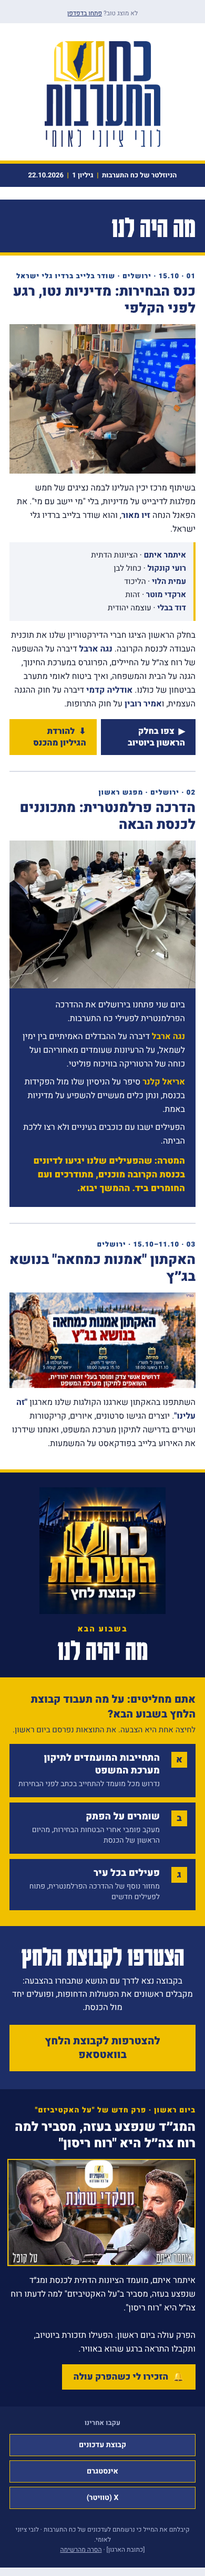
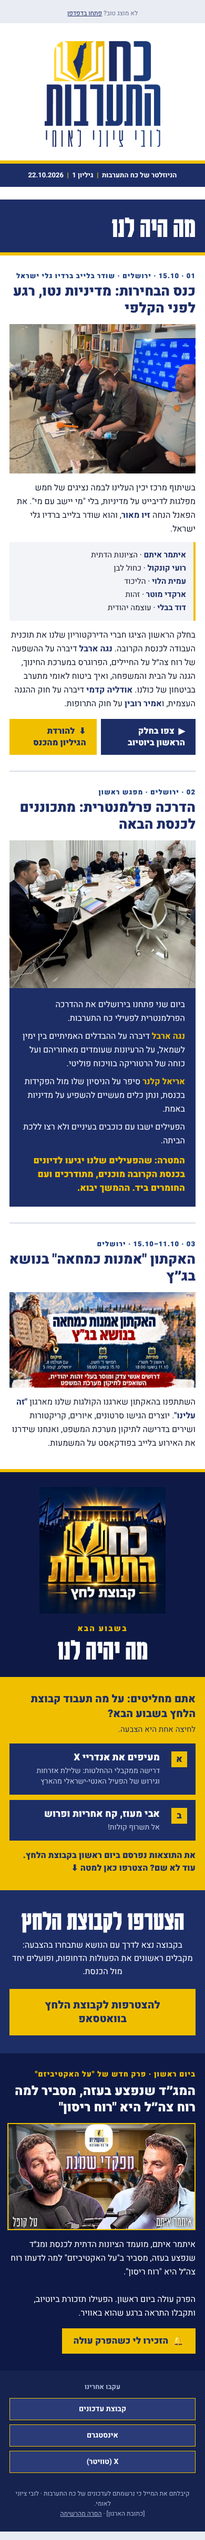
Issue 1: two vote options, results line points to the pressure group
Claude-Session: https://claude.ai/code/session_01CXy1GAMCNCJzawLkNUrF7w

diff --git a/newsletter/preview-issue-01.html b/newsletter/preview-issue-01.html
@@ -6,7 +6,7 @@
 
   משתנים להחלפה:
     logo.png images/conference.jpg images/training.jpg images/hackathon.jpg images/pressure-group.jpg images/podcast.jpg  כתובות התמונות (logo.png, images/*.jpg) אחרי העלאה למערכת הדיוור
-    https://claude.ai/artifact/BitaazYA1yUxEs9iazZaUa#vote-a https://claude.ai/artifact/BitaazYA1yUxEs9iazZaUa#vote-b https://claude.ai/artifact/BitaazYA1yUxEs9iazZaUa#vote-c  קישור לכל אפשרות הצבעה. מערכת הדיוור סופרת לחיצות לכל קישור בנפרד
+    https://claude.ai/artifact/BitaazYA1yUxEs9iazZaUa#vote-a https://claude.ai/artifact/BitaazYA1yUxEs9iazZaUa#vote-b  קישור לכל אפשרות הצבעה. מערכת הדיוור סופרת לחיצות לכל קישור בנפרד
     #      הגיליון מהכנס להורדה
     https://claude.ai/artifact/BitaazYA1yUxEs9iazZaUa#web   הגיליון בדפדפן
     https://claude.ai/artifact/BitaazYA1yUxEs9iazZaUa#unsub   הסרה מהרשימה (חובה)
@@ -140,7 +140,7 @@
         <tr><td height="6" bgcolor="#F0C000" style="background:#F0C000;font-size:0;line-height:0;">&nbsp;</td></tr>
         <tr><td class="px" bgcolor="#F0C000" style="background:#F0C000;padding:22px 26px 30px;text-align:right;">
           <div style="font-family:'Heebo',Arial,sans-serif;font-size:20px;line-height:28px;font-weight:900;color:#1D2E67;padding:0 0 4px;">אתם מחליטים: על מה תעבוד קבוצת הלחץ בשבוע הבא?</div>
-          <div style="font-family:'Heebo',Arial,sans-serif;font-size:15px;line-height:22px;color:#1D2E67;padding-bottom:16px;">לחיצה אחת היא הצבעה. את התוצאות נפרסם ביום ראשון.</div>
+          <div style="font-family:'Heebo',Arial,sans-serif;font-size:15px;line-height:22px;color:#1D2E67;padding-bottom:16px;">לחיצה אחת היא הצבעה.</div>
 
           <table role="presentation" width="100%" cellpadding="0" cellspacing="0" border="0">
             <tr><td style="padding-bottom:10px;">
@@ -149,34 +149,24 @@
                   <table role="presentation" cellpadding="0" cellspacing="0" border="0"><tr><td width="30" height="30" align="center" bgcolor="#F0C000" style="background:#F0C000;font-family:'Heebo',Arial,sans-serif;font-size:17px;font-weight:900;color:#1D2E67;"><a href="https://claude.ai/artifact/BitaazYA1yUxEs9iazZaUa#vote-a" style="color:#1D2E67;text-decoration:none;">א</a></td></tr></table>
                 </td>
                 <td bgcolor="#1D2E67" style="background:#1D2E67;padding:15px 12px 15px 16px;text-align:right;font-family:'Heebo',Arial,sans-serif;">
-                  <a href="https://claude.ai/artifact/BitaazYA1yUxEs9iazZaUa#vote-a" style="color:#FFFFFF;text-decoration:none;font-size:18px;line-height:24px;font-weight:900;display:block;">התחייבות המועמדים לתיקון מערכת המשפט</a>
-                  <a href="https://claude.ai/artifact/BitaazYA1yUxEs9iazZaUa#vote-a" style="color:#C9D0E6;text-decoration:none;font-size:14px;line-height:20px;display:block;padding-top:3px;">נדרוש מכל מועמד להתחייב בכתב לפני הבחירות</a>
-                </td>
-              </tr></table>
-            </td></tr>
-            <tr><td style="padding-bottom:10px;">
-              <table role="presentation" width="100%" cellpadding="0" cellspacing="0" border="0"><tr>
-                <td width="40" valign="top" bgcolor="#1D2E67" style="background:#1D2E67;padding:15px 16px 15px 0;">
-                  <table role="presentation" cellpadding="0" cellspacing="0" border="0"><tr><td width="30" height="30" align="center" bgcolor="#F0C000" style="background:#F0C000;font-family:'Heebo',Arial,sans-serif;font-size:17px;font-weight:900;color:#1D2E67;"><a href="https://claude.ai/artifact/BitaazYA1yUxEs9iazZaUa#vote-b" style="color:#1D2E67;text-decoration:none;">ב</a></td></tr></table>
-                </td>
-                <td bgcolor="#1D2E67" style="background:#1D2E67;padding:15px 12px 15px 16px;text-align:right;font-family:'Heebo',Arial,sans-serif;">
-                  <a href="https://claude.ai/artifact/BitaazYA1yUxEs9iazZaUa#vote-b" style="color:#FFFFFF;text-decoration:none;font-size:18px;line-height:24px;font-weight:900;display:block;">שומרים על הפתק</a>
-                  <a href="https://claude.ai/artifact/BitaazYA1yUxEs9iazZaUa#vote-b" style="color:#C9D0E6;text-decoration:none;font-size:14px;line-height:20px;display:block;padding-top:3px;">מעקב פומבי אחרי הבטחות הבחירות, מהיום הראשון של הכנסת</a>
+                  <a href="https://claude.ai/artifact/BitaazYA1yUxEs9iazZaUa#vote-a" style="color:#FFFFFF;text-decoration:none;font-size:18px;line-height:24px;font-weight:900;display:block;">מעיפים את אנדריי X</a>
+                  <a href="https://claude.ai/artifact/BitaazYA1yUxEs9iazZaUa#vote-a" style="color:#C9D0E6;text-decoration:none;font-size:14px;line-height:20px;display:block;padding-top:3px;">דרישה ממקבלי ההחלטות: שלילת אזרחות וגירוש של הפעיל האנטי-ישראלי מהארץ</a>
                 </td>
               </tr></table>
             </td></tr>
             <tr><td>
               <table role="presentation" width="100%" cellpadding="0" cellspacing="0" border="0"><tr>
                 <td width="40" valign="top" bgcolor="#1D2E67" style="background:#1D2E67;padding:15px 16px 15px 0;">
-                  <table role="presentation" cellpadding="0" cellspacing="0" border="0"><tr><td width="30" height="30" align="center" bgcolor="#F0C000" style="background:#F0C000;font-family:'Heebo',Arial,sans-serif;font-size:17px;font-weight:900;color:#1D2E67;"><a href="https://claude.ai/artifact/BitaazYA1yUxEs9iazZaUa#vote-c" style="color:#1D2E67;text-decoration:none;">ג</a></td></tr></table>
+                  <table role="presentation" cellpadding="0" cellspacing="0" border="0"><tr><td width="30" height="30" align="center" bgcolor="#F0C000" style="background:#F0C000;font-family:'Heebo',Arial,sans-serif;font-size:17px;font-weight:900;color:#1D2E67;"><a href="https://claude.ai/artifact/BitaazYA1yUxEs9iazZaUa#vote-b" style="color:#1D2E67;text-decoration:none;">ב</a></td></tr></table>
                 </td>
                 <td bgcolor="#1D2E67" style="background:#1D2E67;padding:15px 12px 15px 16px;text-align:right;font-family:'Heebo',Arial,sans-serif;">
-                  <a href="https://claude.ai/artifact/BitaazYA1yUxEs9iazZaUa#vote-c" style="color:#FFFFFF;text-decoration:none;font-size:18px;line-height:24px;font-weight:900;display:block;">פעילים בכל עיר</a>
-                  <a href="https://claude.ai/artifact/BitaazYA1yUxEs9iazZaUa#vote-c" style="color:#C9D0E6;text-decoration:none;font-size:14px;line-height:20px;display:block;padding-top:3px;">מחזור נוסף של ההדרכה הפרלמנטרית, פתוח לפעילים חדשים</a>
+                  <a href="https://claude.ai/artifact/BitaazYA1yUxEs9iazZaUa#vote-b" style="color:#FFFFFF;text-decoration:none;font-size:18px;line-height:24px;font-weight:900;display:block;">אבי מעוז, קח אחריות ופרוש</a>
+                  <a href="https://claude.ai/artifact/BitaazYA1yUxEs9iazZaUa#vote-b" style="color:#C9D0E6;text-decoration:none;font-size:14px;line-height:20px;display:block;padding-top:3px;">אל תשרוף קולות!</a>
                 </td>
               </tr></table>
             </td></tr>
           </table>
+          <div style="font-family:'Heebo',Arial,sans-serif;font-size:16px;line-height:24px;font-weight:900;color:#1D2E67;padding-top:16px;">את התוצאות נפרסם ביום ראשון בקבוצת הלחץ. עוד לא שם? הצטרפו כאן למטה &#11015;</div>
         </td></tr>
       </table>
     </td></tr>

diff --git a/newsletter/issue-01.html b/newsletter/issue-01.html
@@ -6,7 +6,7 @@
 
   משתנים להחלפה:
     {{IMG_LOGO}} {{IMG_CONF}} {{IMG_TRAINING}} {{IMG_HACKATHON}} {{IMG_PRESSURE}} {{IMG_PODCAST}}  כתובות התמונות (logo.png, images/*.jpg) אחרי העלאה למערכת הדיוור
-    {{VOTE_A_URL}} {{VOTE_B_URL}} {{VOTE_C_URL}}  קישור לכל אפשרות הצבעה. מערכת הדיוור סופרת לחיצות לכל קישור בנפרד
+    {{VOTE_A_URL}} {{VOTE_B_URL}}  קישור לכל אפשרות הצבעה. מערכת הדיוור סופרת לחיצות לכל קישור בנפרד
     {{CONF_DOC_URL}}      הגיליון מהכנס להורדה
     {{WEB_VERSION_URL}}   הגיליון בדפדפן
     {{UNSUBSCRIBE_URL}}   הסרה מהרשימה (חובה)
@@ -140,7 +140,7 @@
         <tr><td height="6" bgcolor="#F0C000" style="background:#F0C000;font-size:0;line-height:0;">&nbsp;</td></tr>
         <tr><td class="px" bgcolor="#F0C000" style="background:#F0C000;padding:22px 26px 30px;text-align:right;">
           <div style="font-family:'Heebo',Arial,sans-serif;font-size:20px;line-height:28px;font-weight:900;color:#1D2E67;padding:0 0 4px;">אתם מחליטים: על מה תעבוד קבוצת הלחץ בשבוע הבא?</div>
-          <div style="font-family:'Heebo',Arial,sans-serif;font-size:15px;line-height:22px;color:#1D2E67;padding-bottom:16px;">לחיצה אחת היא הצבעה. את התוצאות נפרסם ביום ראשון.</div>
+          <div style="font-family:'Heebo',Arial,sans-serif;font-size:15px;line-height:22px;color:#1D2E67;padding-bottom:16px;">לחיצה אחת היא הצבעה.</div>
 
           <table role="presentation" width="100%" cellpadding="0" cellspacing="0" border="0">
             <tr><td style="padding-bottom:10px;">
@@ -149,34 +149,24 @@
                   <table role="presentation" cellpadding="0" cellspacing="0" border="0"><tr><td width="30" height="30" align="center" bgcolor="#F0C000" style="background:#F0C000;font-family:'Heebo',Arial,sans-serif;font-size:17px;font-weight:900;color:#1D2E67;"><a href="{{VOTE_A_URL}}" style="color:#1D2E67;text-decoration:none;">א</a></td></tr></table>
                 </td>
                 <td bgcolor="#1D2E67" style="background:#1D2E67;padding:15px 12px 15px 16px;text-align:right;font-family:'Heebo',Arial,sans-serif;">
-                  <a href="{{VOTE_A_URL}}" style="color:#FFFFFF;text-decoration:none;font-size:18px;line-height:24px;font-weight:900;display:block;">התחייבות המועמדים לתיקון מערכת המשפט</a>
-                  <a href="{{VOTE_A_URL}}" style="color:#C9D0E6;text-decoration:none;font-size:14px;line-height:20px;display:block;padding-top:3px;">נדרוש מכל מועמד להתחייב בכתב לפני הבחירות</a>
-                </td>
-              </tr></table>
-            </td></tr>
-            <tr><td style="padding-bottom:10px;">
-              <table role="presentation" width="100%" cellpadding="0" cellspacing="0" border="0"><tr>
-                <td width="40" valign="top" bgcolor="#1D2E67" style="background:#1D2E67;padding:15px 16px 15px 0;">
-                  <table role="presentation" cellpadding="0" cellspacing="0" border="0"><tr><td width="30" height="30" align="center" bgcolor="#F0C000" style="background:#F0C000;font-family:'Heebo',Arial,sans-serif;font-size:17px;font-weight:900;color:#1D2E67;"><a href="{{VOTE_B_URL}}" style="color:#1D2E67;text-decoration:none;">ב</a></td></tr></table>
-                </td>
-                <td bgcolor="#1D2E67" style="background:#1D2E67;padding:15px 12px 15px 16px;text-align:right;font-family:'Heebo',Arial,sans-serif;">
-                  <a href="{{VOTE_B_URL}}" style="color:#FFFFFF;text-decoration:none;font-size:18px;line-height:24px;font-weight:900;display:block;">שומרים על הפתק</a>
-                  <a href="{{VOTE_B_URL}}" style="color:#C9D0E6;text-decoration:none;font-size:14px;line-height:20px;display:block;padding-top:3px;">מעקב פומבי אחרי הבטחות הבחירות, מהיום הראשון של הכנסת</a>
+                  <a href="{{VOTE_A_URL}}" style="color:#FFFFFF;text-decoration:none;font-size:18px;line-height:24px;font-weight:900;display:block;">מעיפים את אנדריי X</a>
+                  <a href="{{VOTE_A_URL}}" style="color:#C9D0E6;text-decoration:none;font-size:14px;line-height:20px;display:block;padding-top:3px;">דרישה ממקבלי ההחלטות: שלילת אזרחות וגירוש של הפעיל האנטי-ישראלי מהארץ</a>
                 </td>
               </tr></table>
             </td></tr>
             <tr><td>
               <table role="presentation" width="100%" cellpadding="0" cellspacing="0" border="0"><tr>
                 <td width="40" valign="top" bgcolor="#1D2E67" style="background:#1D2E67;padding:15px 16px 15px 0;">
-                  <table role="presentation" cellpadding="0" cellspacing="0" border="0"><tr><td width="30" height="30" align="center" bgcolor="#F0C000" style="background:#F0C000;font-family:'Heebo',Arial,sans-serif;font-size:17px;font-weight:900;color:#1D2E67;"><a href="{{VOTE_C_URL}}" style="color:#1D2E67;text-decoration:none;">ג</a></td></tr></table>
+                  <table role="presentation" cellpadding="0" cellspacing="0" border="0"><tr><td width="30" height="30" align="center" bgcolor="#F0C000" style="background:#F0C000;font-family:'Heebo',Arial,sans-serif;font-size:17px;font-weight:900;color:#1D2E67;"><a href="{{VOTE_B_URL}}" style="color:#1D2E67;text-decoration:none;">ב</a></td></tr></table>
                 </td>
                 <td bgcolor="#1D2E67" style="background:#1D2E67;padding:15px 12px 15px 16px;text-align:right;font-family:'Heebo',Arial,sans-serif;">
-                  <a href="{{VOTE_C_URL}}" style="color:#FFFFFF;text-decoration:none;font-size:18px;line-height:24px;font-weight:900;display:block;">פעילים בכל עיר</a>
-                  <a href="{{VOTE_C_URL}}" style="color:#C9D0E6;text-decoration:none;font-size:14px;line-height:20px;display:block;padding-top:3px;">מחזור נוסף של ההדרכה הפרלמנטרית, פתוח לפעילים חדשים</a>
+                  <a href="{{VOTE_B_URL}}" style="color:#FFFFFF;text-decoration:none;font-size:18px;line-height:24px;font-weight:900;display:block;">אבי מעוז, קח אחריות ופרוש</a>
+                  <a href="{{VOTE_B_URL}}" style="color:#C9D0E6;text-decoration:none;font-size:14px;line-height:20px;display:block;padding-top:3px;">אל תשרוף קולות!</a>
                 </td>
               </tr></table>
             </td></tr>
           </table>
+          <div style="font-family:'Heebo',Arial,sans-serif;font-size:16px;line-height:24px;font-weight:900;color:#1D2E67;padding-top:16px;">את התוצאות נפרסם ביום ראשון בקבוצת הלחץ. עוד לא שם? הצטרפו כאן למטה &#11015;</div>
         </td></tr>
       </table>
     </td></tr>

diff --git a/newsletter/web-issue-01.html b/newsletter/web-issue-01.html
@@ -115,7 +115,7 @@
         <tr><td height="6" bgcolor="#F0C000" style="background:#F0C000;font-size:0;line-height:0;">&nbsp;</td></tr>
         <tr><td class="px" bgcolor="#F0C000" style="background:#F0C000;padding:22px 26px 30px;text-align:right;">
           <div style="font-family:'Heebo',Arial,sans-serif;font-size:20px;line-height:28px;font-weight:900;color:#1D2E67;padding:0 0 4px;">אתם מחליטים: על מה תעבוד קבוצת הלחץ בשבוע הבא?</div>
-          <div style="font-family:'Heebo',Arial,sans-serif;font-size:15px;line-height:22px;color:#1D2E67;padding-bottom:16px;">לחיצה אחת היא הצבעה. את התוצאות נפרסם ביום ראשון.</div>
+          <div style="font-family:'Heebo',Arial,sans-serif;font-size:15px;line-height:22px;color:#1D2E67;padding-bottom:16px;">לחיצה אחת היא הצבעה.</div>
 
           <table role="presentation" width="100%" cellpadding="0" cellspacing="0" border="0">
             <tr><td style="padding-bottom:10px;">
@@ -124,34 +124,24 @@
                   <table role="presentation" cellpadding="0" cellspacing="0" border="0"><tr><td width="30" height="30" align="center" bgcolor="#F0C000" style="background:#F0C000;font-family:'Heebo',Arial,sans-serif;font-size:17px;font-weight:900;color:#1D2E67;"><a href="https://claude.ai/artifact/BitaazYA1yUxEs9iazZaUa#vote-a" style="color:#1D2E67;text-decoration:none;">א</a></td></tr></table>
                 </td>
                 <td bgcolor="#1D2E67" style="background:#1D2E67;padding:15px 12px 15px 16px;text-align:right;font-family:'Heebo',Arial,sans-serif;">
-                  <a href="https://claude.ai/artifact/BitaazYA1yUxEs9iazZaUa#vote-a" style="color:#FFFFFF;text-decoration:none;font-size:18px;line-height:24px;font-weight:900;display:block;">התחייבות המועמדים לתיקון מערכת המשפט</a>
-                  <a href="https://claude.ai/artifact/BitaazYA1yUxEs9iazZaUa#vote-a" style="color:#C9D0E6;text-decoration:none;font-size:14px;line-height:20px;display:block;padding-top:3px;">נדרוש מכל מועמד להתחייב בכתב לפני הבחירות</a>
-                </td>
-              </tr></table>
-            </td></tr>
-            <tr><td style="padding-bottom:10px;">
-              <table role="presentation" width="100%" cellpadding="0" cellspacing="0" border="0"><tr>
-                <td width="40" valign="top" bgcolor="#1D2E67" style="background:#1D2E67;padding:15px 16px 15px 0;">
-                  <table role="presentation" cellpadding="0" cellspacing="0" border="0"><tr><td width="30" height="30" align="center" bgcolor="#F0C000" style="background:#F0C000;font-family:'Heebo',Arial,sans-serif;font-size:17px;font-weight:900;color:#1D2E67;"><a href="https://claude.ai/artifact/BitaazYA1yUxEs9iazZaUa#vote-b" style="color:#1D2E67;text-decoration:none;">ב</a></td></tr></table>
-                </td>
-                <td bgcolor="#1D2E67" style="background:#1D2E67;padding:15px 12px 15px 16px;text-align:right;font-family:'Heebo',Arial,sans-serif;">
-                  <a href="https://claude.ai/artifact/BitaazYA1yUxEs9iazZaUa#vote-b" style="color:#FFFFFF;text-decoration:none;font-size:18px;line-height:24px;font-weight:900;display:block;">שומרים על הפתק</a>
-                  <a href="https://claude.ai/artifact/BitaazYA1yUxEs9iazZaUa#vote-b" style="color:#C9D0E6;text-decoration:none;font-size:14px;line-height:20px;display:block;padding-top:3px;">מעקב פומבי אחרי הבטחות הבחירות, מהיום הראשון של הכנסת</a>
+                  <a href="https://claude.ai/artifact/BitaazYA1yUxEs9iazZaUa#vote-a" style="color:#FFFFFF;text-decoration:none;font-size:18px;line-height:24px;font-weight:900;display:block;">מעיפים את אנדריי X</a>
+                  <a href="https://claude.ai/artifact/BitaazYA1yUxEs9iazZaUa#vote-a" style="color:#C9D0E6;text-decoration:none;font-size:14px;line-height:20px;display:block;padding-top:3px;">דרישה ממקבלי ההחלטות: שלילת אזרחות וגירוש של הפעיל האנטי-ישראלי מהארץ</a>
                 </td>
               </tr></table>
             </td></tr>
             <tr><td>
               <table role="presentation" width="100%" cellpadding="0" cellspacing="0" border="0"><tr>
                 <td width="40" valign="top" bgcolor="#1D2E67" style="background:#1D2E67;padding:15px 16px 15px 0;">
-                  <table role="presentation" cellpadding="0" cellspacing="0" border="0"><tr><td width="30" height="30" align="center" bgcolor="#F0C000" style="background:#F0C000;font-family:'Heebo',Arial,sans-serif;font-size:17px;font-weight:900;color:#1D2E67;"><a href="https://claude.ai/artifact/BitaazYA1yUxEs9iazZaUa#vote-c" style="color:#1D2E67;text-decoration:none;">ג</a></td></tr></table>
+                  <table role="presentation" cellpadding="0" cellspacing="0" border="0"><tr><td width="30" height="30" align="center" bgcolor="#F0C000" style="background:#F0C000;font-family:'Heebo',Arial,sans-serif;font-size:17px;font-weight:900;color:#1D2E67;"><a href="https://claude.ai/artifact/BitaazYA1yUxEs9iazZaUa#vote-b" style="color:#1D2E67;text-decoration:none;">ב</a></td></tr></table>
                 </td>
                 <td bgcolor="#1D2E67" style="background:#1D2E67;padding:15px 12px 15px 16px;text-align:right;font-family:'Heebo',Arial,sans-serif;">
-                  <a href="https://claude.ai/artifact/BitaazYA1yUxEs9iazZaUa#vote-c" style="color:#FFFFFF;text-decoration:none;font-size:18px;line-height:24px;font-weight:900;display:block;">פעילים בכל עיר</a>
-                  <a href="https://claude.ai/artifact/BitaazYA1yUxEs9iazZaUa#vote-c" style="color:#C9D0E6;text-decoration:none;font-size:14px;line-height:20px;display:block;padding-top:3px;">מחזור נוסף של ההדרכה הפרלמנטרית, פתוח לפעילים חדשים</a>
+                  <a href="https://claude.ai/artifact/BitaazYA1yUxEs9iazZaUa#vote-b" style="color:#FFFFFF;text-decoration:none;font-size:18px;line-height:24px;font-weight:900;display:block;">אבי מעוז, קח אחריות ופרוש</a>
+                  <a href="https://claude.ai/artifact/BitaazYA1yUxEs9iazZaUa#vote-b" style="color:#C9D0E6;text-decoration:none;font-size:14px;line-height:20px;display:block;padding-top:3px;">אל תשרוף קולות!</a>
                 </td>
               </tr></table>
             </td></tr>
           </table>
+          <div style="font-family:'Heebo',Arial,sans-serif;font-size:16px;line-height:24px;font-weight:900;color:#1D2E67;padding-top:16px;">את התוצאות נפרסם ביום ראשון בקבוצת הלחץ. עוד לא שם? הצטרפו כאן למטה &#11015;</div>
         </td></tr>
       </table>
     </td></tr>

diff --git a/newsletter/build.py b/newsletter/build.py
@@ -22,7 +22,6 @@ DEMO = "https://claude.ai/artifact/BitaazYA1yUxEs9iazZaUa"
 LINKS = {
     "VOTE_A_URL": DEMO + "#vote-a",
     "VOTE_B_URL": DEMO + "#vote-b",
-    "VOTE_C_URL": DEMO + "#vote-c",
     "WEB_VERSION_URL": DEMO + "#web",
     "UNSUBSCRIBE_URL": DEMO + "#unsub",
     "CONF_DOC_URL": "#",
